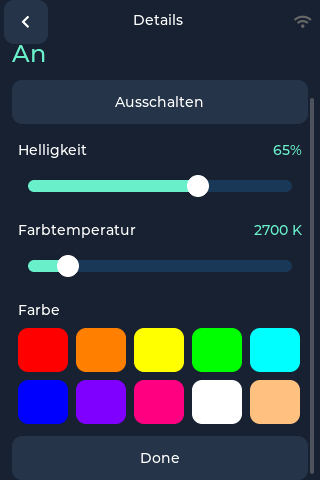
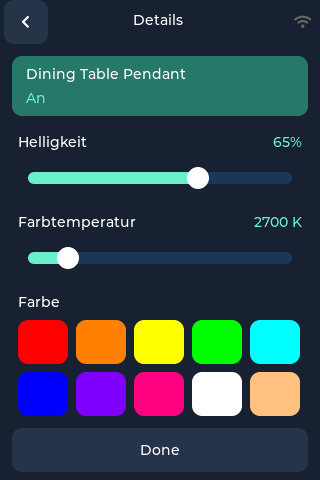
Optimize datail screen of device, add color, etc.

diff --git a/src/apps/HomeAssistantApp.cpp b/src/apps/HomeAssistantApp.cpp
@@ -44,16 +44,19 @@ void render(){
   ctx.detail_notice=s.notice();ctx.detail_pending=s.pending(ctx.detail);
   ctx.detail_entity=s.entity(ctx.detail)?*s.entity(ctx.detail):ha::Entity{};
   auto*t=tile();auto*e=s.entity(ctx.detail);if(!t){ctx.view=0;render();return;}
-  auto*l=label(ctx.body,t->name.empty()?ctx.detail:t->name,12,14,w-24,0xffffff,true);lv_obj_update_layout(l);int titleBottom=14+lv_obj_get_height(l);
-  label(ctx.body,value(e),12,titleBottom+10,w-24,ctx.connected?Mint:Muted,true);
   bool enabled=ctx.connected&&e&&e->available()&&!s.pending(ctx.detail);auto domain=ha::domain(ctx.detail);
-  int footer=std::max(382,titleBottom+90);
+  int footer=382;
   if(domain=="light"){
-   auto*b=button(ctx.body,i18n::tr((s.expected_state(ctx.detail)?std::string(s.expected_state(ctx.detail))=="on":e&&e->state=="on")?"Turn off":"Turn on"),12,titleBottom+50,w-24,44,toggle);if(!enabled)lv_obj_add_state(b,LV_STATE_DISABLED);
-   int y=titleBottom+112;
-   auto add_slider=[&](const char*name,const char*action,int min,int max,int current,const std::string&v){label(ctx.body,i18n::tr(name),18,y,w-36);auto*l=label(ctx.body,v,w-100,y,82,Mint);lv_obj_set_style_text_align(l,LV_TEXT_ALIGN_RIGHT,0);auto*sl=lv_slider_create(ctx.body);lv_obj_set_pos(sl,28,y+38);lv_obj_set_size(sl,w-56,12);lv_slider_set_range(sl,min,max);lv_slider_set_value(sl,std::max(min,std::min(max,current)),LV_ANIM_OFF);lv_obj_set_style_bg_color(sl,lv_color_hex(Mint),LV_PART_INDICATOR);lv_obj_set_style_bg_color(sl,lv_color_white(),LV_PART_KNOB);lv_obj_add_event_cb(sl,slider,LV_EVENT_RELEASED,const_cast<char*>(action));if(!enabled)lv_obj_add_state(sl,LV_STATE_DISABLED);y+=80;};
-   if(e&&e->dimmable)add_slider("Brightness","brightness",0,100,e->brightness<0?0:(e->brightness*100+127)/255,std::to_string(e->brightness<0?0:(e->brightness*100+127)/255)+"%");
-   if(e&&e->warmth)add_slider("Warmth","warmth",e->min_kelvin,e->max_kelvin,e->kelvin,std::to_string(e->kelvin)+" K");
+   bool on=s.expected_state(ctx.detail)?std::string(s.expected_state(ctx.detail))=="on":e&&e->state=="on";
+   auto*b=button(ctx.body,"",12,12,w-24,60,toggle,0,on&&ctx.connected?0x267968:Card);
+   auto*name=label(b,t->name.empty()?ctx.detail:t->name,14,10,w-52);
+   lv_label_set_long_mode(name,LV_LABEL_LONG_SCROLL_CIRCULAR);
+   label(b,value(e),14,34,w-52,on&&ctx.connected?Mint:Muted);
+   if(!enabled)lv_obj_add_state(b,LV_STATE_DISABLED);
+   int y=90;
+   auto add_slider=[&](const char*name,const char*action,int min,int max,int current,const std::string&v){label(ctx.body,i18n::tr(name),18,y,w-36);auto*l=label(ctx.body,v,w-100,y,82,Mint);lv_obj_set_style_text_align(l,LV_TEXT_ALIGN_RIGHT,0);auto*sl=lv_slider_create(ctx.body);lv_obj_set_pos(sl,28,y+38);lv_obj_set_size(sl,w-56,12);lv_slider_set_range(sl,min,max);lv_slider_set_value(sl,std::max(min,std::min(max,current)),LV_ANIM_OFF);lv_obj_set_style_bg_color(sl,lv_color_hex(Mint),LV_PART_INDICATOR);lv_obj_set_style_bg_color(sl,lv_color_white(),LV_PART_KNOB);lv_obj_add_event_cb(sl,[](lv_event_t*event){auto*slider=static_cast<lv_obj_t*>(lv_event_get_target(event));auto*valueLabel=static_cast<lv_obj_t*>(lv_event_get_user_data(event));std::string text=std::to_string(lv_slider_get_value(slider))+(lv_slider_get_max_value(slider)==100?"%":" K");lv_label_set_text(valueLabel,text.c_str());},LV_EVENT_VALUE_CHANGED,l);lv_obj_add_event_cb(sl,slider,LV_EVENT_RELEASED,const_cast<char*>(action));if(!enabled)lv_obj_add_state(sl,LV_STATE_DISABLED);y+=80;};
+   if(e&&e->dimmable){int brightness=s.expected_value(ctx.detail,"brightness",e->brightness<0?0:(e->brightness*100+127)/255);add_slider("Brightness","brightness",0,100,brightness,std::to_string(brightness)+"%");}
+   if(e&&e->warmth){int kelvin=s.expected_value(ctx.detail,"warmth",e->kelvin);add_slider("Warmth","warmth",e->min_kelvin,e->max_kelvin,kelvin,std::to_string(kelvin)+" K");}
    if(e&&e->color){
     label(ctx.body,i18n::tr("Color"),18,y,w-36);y+=26;
     const uint32_t colors[]={0xff0000,0xff8000,0xffff00,0x00ff00,0x00ffff,0x0000ff,0x8000ff,0xff0080,0xffffff,0xffc080};
@@ -62,7 +65,7 @@ void render(){
     y+=108;
    }
    footer=std::max(footer,y);
-  }else label(ctx.body,ctx.detail,12,titleBottom+70,w-24,Muted);
+  }else {auto*l=label(ctx.body,t->name.empty()?ctx.detail:t->name,12,14,w-24,0xffffff,true);lv_obj_update_layout(l);int titleBottom=14+lv_obj_get_height(l);footer=std::max(footer,titleBottom+90);label(ctx.body,value(e),12,titleBottom+10,w-24,ctx.connected?Mint:Muted,true);label(ctx.body,ctx.detail,12,titleBottom+70,w-24,Muted);}
   if(!s.notice().empty()){auto*n=label(ctx.body,i18n::tr(s.notice().c_str()),12,footer,w-24,0xffc66d);lv_obj_update_layout(n);footer+=lv_obj_get_height(n)+12;}
   button(ctx.body,i18n::tr("Done"),12,footer,w-24,44,back);return;
  }

diff --git a/test/home-assistant/regression.cpp b/test/home-assistant/regression.cpp
@@ -42,7 +42,7 @@ int main(int argc,char**argv){
  EntityStream next(256);assert(request(c,"/api/states?large","",largeResponse,error,&next));assert(next.matches==607&&next.items.size()==256&&next.items[0].id!=first.items[0].id);
  EntityStream search(0,"extra_599","sensor");assert(request(c,"/api/states?large","",largeResponse,error,&search));assert(search.matches==1&&search.items[0].id=="sensor.extra_599");
  auto&s=HomeAssistantService::instance();assert(s.begin());assert(s.configure(raw,error));assert(s.begin());assert(s.config().pages[0].tiles.size()==6&&s.config().token=="test-token");assert(s.discover());finish(s);assert(s.connected()&&s.entities().size()==7);assert(s.entity("light.sofa")->dimmable&&s.entity("light.sofa")->warmth);
- assert(s.act("light.sofa","brightness",65));finish(s);assert(s.notice().empty());assert(s.act("light.sofa","color",0xff0080));finish(s);assert(!s.act("sensor.temperature","toggle"));
+ assert(s.act("light.sofa","brightness",65));finish(s);assert(s.notice().empty());s._result=s._entities;s._job=0;s._running=true;s._finished=true;s.loop();assert(!s.pending("light.sofa"));assert(s.act("light.sofa","color",0xff0080));finish(s);assert(!s.act("sensor.temperature","toggle"));
  assert(s.open_setup());auto setupUrl=s.setup_url();auto key=setupUrl.substr(setupUrl.find('#')+1);int status;
  assert(s.setup_request("GET","/api/config","bad","",status).find("error")!=std::string::npos&&status==403);
  auto publicConfig=s.setup_request("GET","/api/config",key,"",status);assert(status==200&&publicConfig.find("test-token")==std::string::npos);
@@ -69,8 +69,29 @@ int main(int argc,char**argv){
   s._result=s._entities;s._result[0].state=oldState;s._job=0;s._running=true;s._finished=true;s.loop();assert(!s.pending("light.sofa"));
   auto*chevron=lv_obj_get_child(originalTile,0);assert(lv_obj_get_width(chevron)==44&&!lv_obj_has_flag(chevron,LV_OBJ_FLAG_EVENT_BUBBLE));
   lv_obj_send_event(chevron,LV_EVENT_CLICKED,nullptr);assert(ctx.view==1&&ctx.detail=="light.sofa"&&!s.busy());capture((std::string("home-light-")+language).c_str());
-  lv_obj_scroll_to_y(ctx.body,1000,LV_ANIM_OFF);capture((std::string("home-color-")+language).c_str());
+  // All light controls and Done must fit at the physical 320x480 resolution.
+  lv_obj_update_layout(ctx.body);auto*done=lv_obj_get_child(ctx.body,-1);
+  assert(lv_obj_get_y(done)+lv_obj_get_height(done)<=lv_obj_get_height(ctx.body));
+  lv_obj_scroll_to_y(ctx.body,1000,LV_ANIM_OFF);assert(lv_obj_get_scroll_y(ctx.body)==0);capture((std::string("home-color-")+language).c_str());
   auto*swatch=lv_obj_get_child(ctx.body,-11);lv_obj_send_event(swatch,LV_EVENT_CLICKED,nullptr);assert(s.busy()&&s._job_body.find("rgb_color")!=std::string::npos);finish(s);refresh();
+  s._entities[0].brightness=166;s._entities[0].kelvin=2700;render();
+  // Slider selections survive request acknowledgement and stale/intermediate polls.
+  for(bool warmth:{false,true}){
+   auto getSlider=[&](){return lv_obj_get_child(ctx.body,warmth?6:3);};
+   auto*sl=getSlider();int target=warmth?4000:80;
+   lv_slider_set_value(sl,target,LV_ANIM_OFF);lv_obj_send_event(sl,LV_EVENT_VALUE_CHANGED,nullptr);
+   lv_obj_send_event(sl,LV_EVENT_RELEASED,nullptr);finish(s);refresh();
+   assert(s.pending("light.sofa")&&lv_slider_get_value(getSlider())==target);
+   s._result=s._entities;s._job=0;s._running=true;s._finished=true;s.loop();refresh();
+   assert(s.pending("light.sofa")&&lv_slider_get_value(getSlider())==target);
+   s._result=s._entities;if(warmth)s._result[0].kelvin=3990;else s._result[0].brightness=204;
+   s._job=0;s._running=true;s._finished=true;s.loop();refresh();assert(!s.pending("light.sofa"));
+   // A command that never confirms must stop displaying an optimistic value.
+   sl=getSlider();lv_slider_set_value(sl,warmth?5000:30,LV_ANIM_OFF);lv_obj_send_event(sl,LV_EVENT_RELEASED,nullptr);finish(s);refresh();
+   s._actions[0].deadline=TransitService::now_ms();s.loop();refresh();
+   assert(!s.pending("light.sofa")&&lv_slider_get_value(getSlider())==(warmth?3990:80));
+   assert(s.notice()=="Home action not confirmed");s._notice_until=TransitService::now_ms();s.loop();refresh();
+  }
   auto*detailChild=lv_obj_get_child(ctx.body,0);s._running=true;++s._revision;refresh();assert(lv_obj_get_child(ctx.body,0)==detailChild);s._running=false;
   setup(nullptr);assert(ctx.view==2);capture((std::string("home-setup-")+language).c_str());
   auto*screen=ctx.screen;ctx.view=0;back(nullptr);lv_obj_delete(screen);assert(!s._active&&!s.setup_open()&&!ctx.timer);

diff --git a/src/services/HomeAssistantService.cpp b/src/services/HomeAssistantService.cpp
@@ -7,6 +7,7 @@
 #include "services/WifiService.h"
 #include <ArduinoJson.h>
 #include <algorithm>
+#include <cstdlib>
 #if defined(ARDUINO)
 #include <Arduino.h>
 #include <esp_system.h>
@@ -32,10 +33,12 @@ bool HomeAssistantService::discover(size_t offset,const std::string&query,const 
 }
 bool HomeAssistantService::pending(const std::string&id)const{for(auto&a:_actions)if(a.id==id)return true;return false;}
 const char*HomeAssistantService::expected_state(const std::string&id)const{for(auto&a:_actions)if(a.id==id&&!a.expected.empty())return a.expected.c_str();return nullptr;}
+int HomeAssistantService::expected_value(const std::string&id,const std::string&action,int fallback)const{for(auto&a:_actions)if(a.id==id&&a.control==action)return a.value;return fallback;}
 bool HomeAssistantService::act(const std::string&id,const std::string&action,int value){
  const auto*e=entity(id);std::string path,body;if(pending(id)||_actions.size()>=ha::MaxPages*ha::MaxTiles||!connected()||!e||!ha::command(_config,*e,action,value,path,body))return false;
  std::string expected;if(ha::domain(id)=="light"&&action=="toggle")expected=e->state=="on"?"off":"on";
- _actions.push_back({id,path,body,expected,now()+30000,++_action_serial,false,false});++_revision;dispatch();return true;
+ if(action=="brightness"||action=="warmth")expected=action=="brightness"&&value==0?"off":"on";
+ _actions.push_back({id,path,body,expected,now()+30000,++_action_serial,false,false,action,value});++_revision;dispatch();return true;
 }
 void HomeAssistantService::dispatch(){
  if(_running)return;
@@ -89,7 +92,13 @@ void HomeAssistantService::loop(){
    for(auto i=_actions.begin();i!=_actions.end();){
     bool remove=false;
     if(_job==2&&i->serial==_job_action){i->accepted=_online;remove=!_online||i->expected.empty();}
-    if(_job==0&&i->accepted){auto*e=entity(i->id);remove=!_online||(e&&e->state==i->expected);}
+    if(_job==0&&i->accepted){
+     auto*e=entity(i->id);bool confirmed=e&&e->state==i->expected;
+     // Ignore stale polls and intermediate transition values. Allow device rounding.
+     if(confirmed&&i->control=="brightness"&&i->value>0)confirmed=e->brightness>=0&&std::abs((e->brightness*100+127)/255-i->value)<=1;
+     if(confirmed&&i->control=="warmth")confirmed=e->kelvin>0&&std::abs(e->kelvin-i->value)<=50;
+     remove=!_online||confirmed;
+    }
     if(remove)i=_actions.erase(i);else ++i;
    }
    _next=now()+(_job==2&&_online?250:_online?(_actions.empty()?5000:1000):15000);++_revision;

diff --git a/include/services/HomeAssistantService.h b/include/services/HomeAssistantService.h
@@ -15,6 +15,7 @@ public:
  const ha::Entity*entity(const std::string&id)const;
  bool pending(const std::string&id)const;
  const char* expected_state(const std::string&id)const;
+ int expected_value(const std::string&id,const std::string&action,int fallback)const;
  bool busy()const{return _running;}
  bool connected()const;
  uint32_t revision()const{return _revision;}
@@ -26,7 +27,7 @@ public:
  std::string setup_request(const std::string&method,const std::string&path,const std::string&key,const std::string&body,int&status);
 private:
  static void worker(void*);bool start(int kind,const std::string&path="",const std::string&body="");
- struct Action{std::string id,path,body,expected;uint32_t deadline,serial;bool sent=false,accepted=false;};
+ struct Action{std::string id,path,body,expected;uint32_t deadline,serial;bool sent=false,accepted=false;std::string control;int value=0;};
  std::vector<Action> _actions;
  uint32_t _action_serial=0,_job_action=0;
  uint32_t _notice_until=0;
